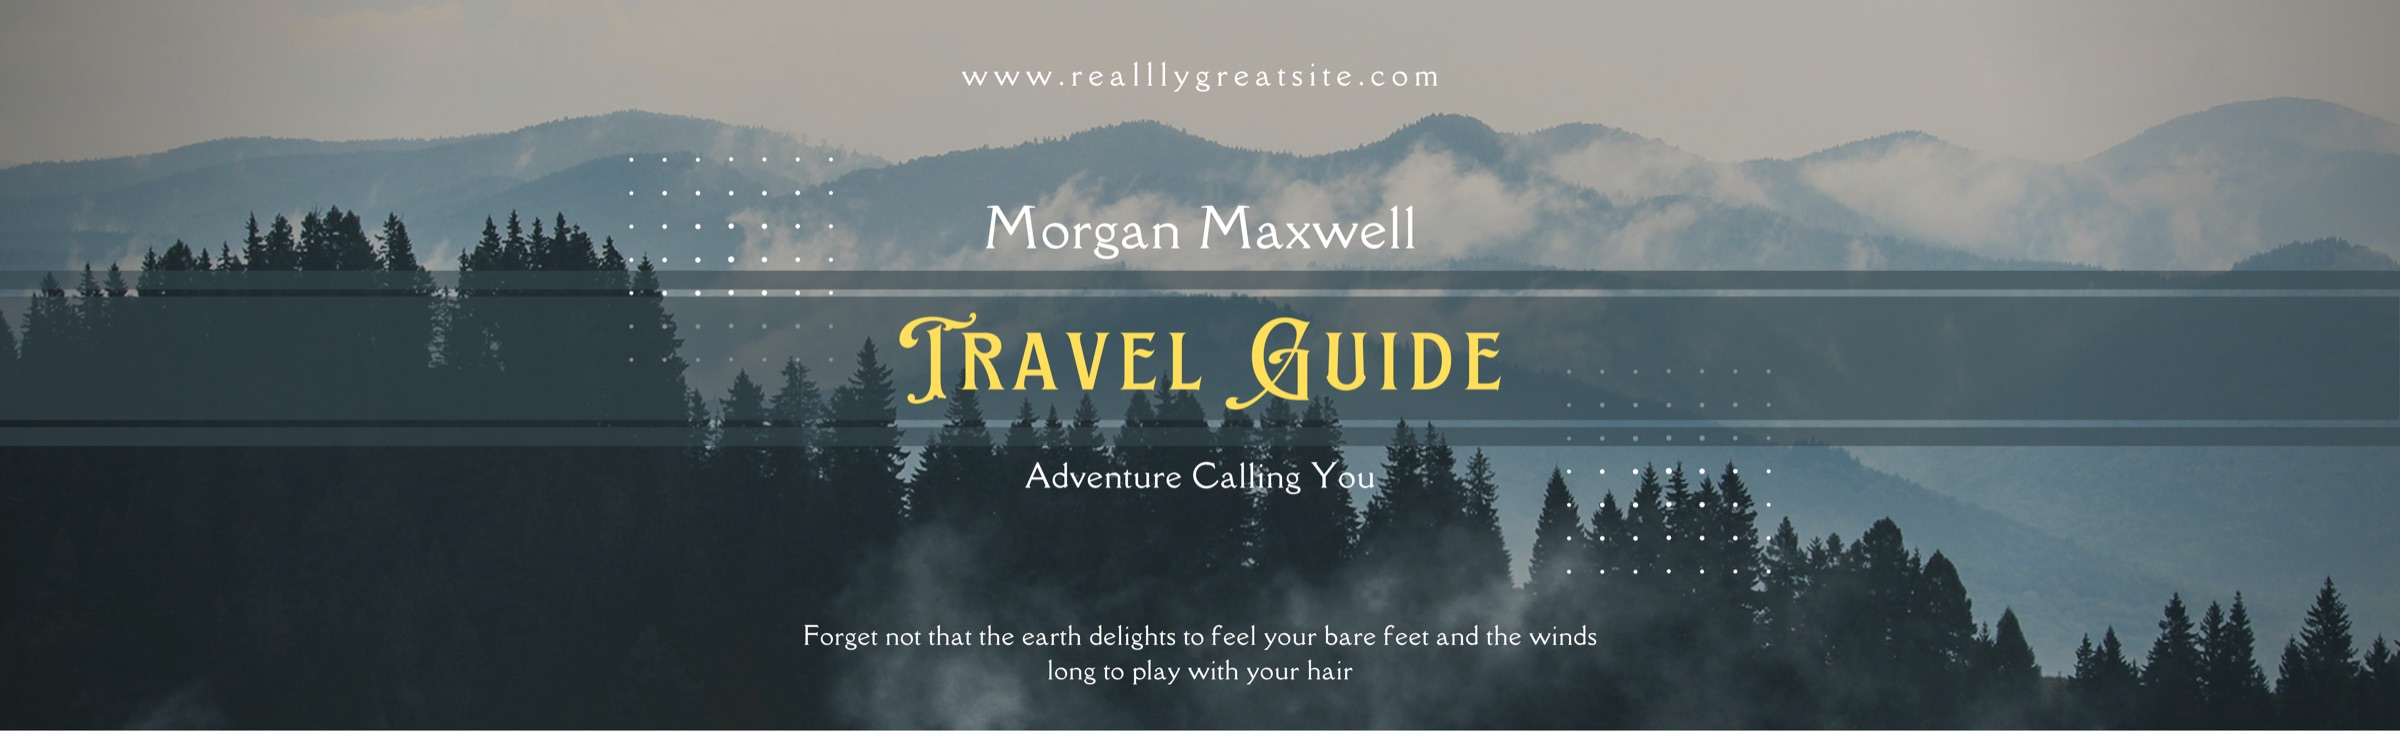
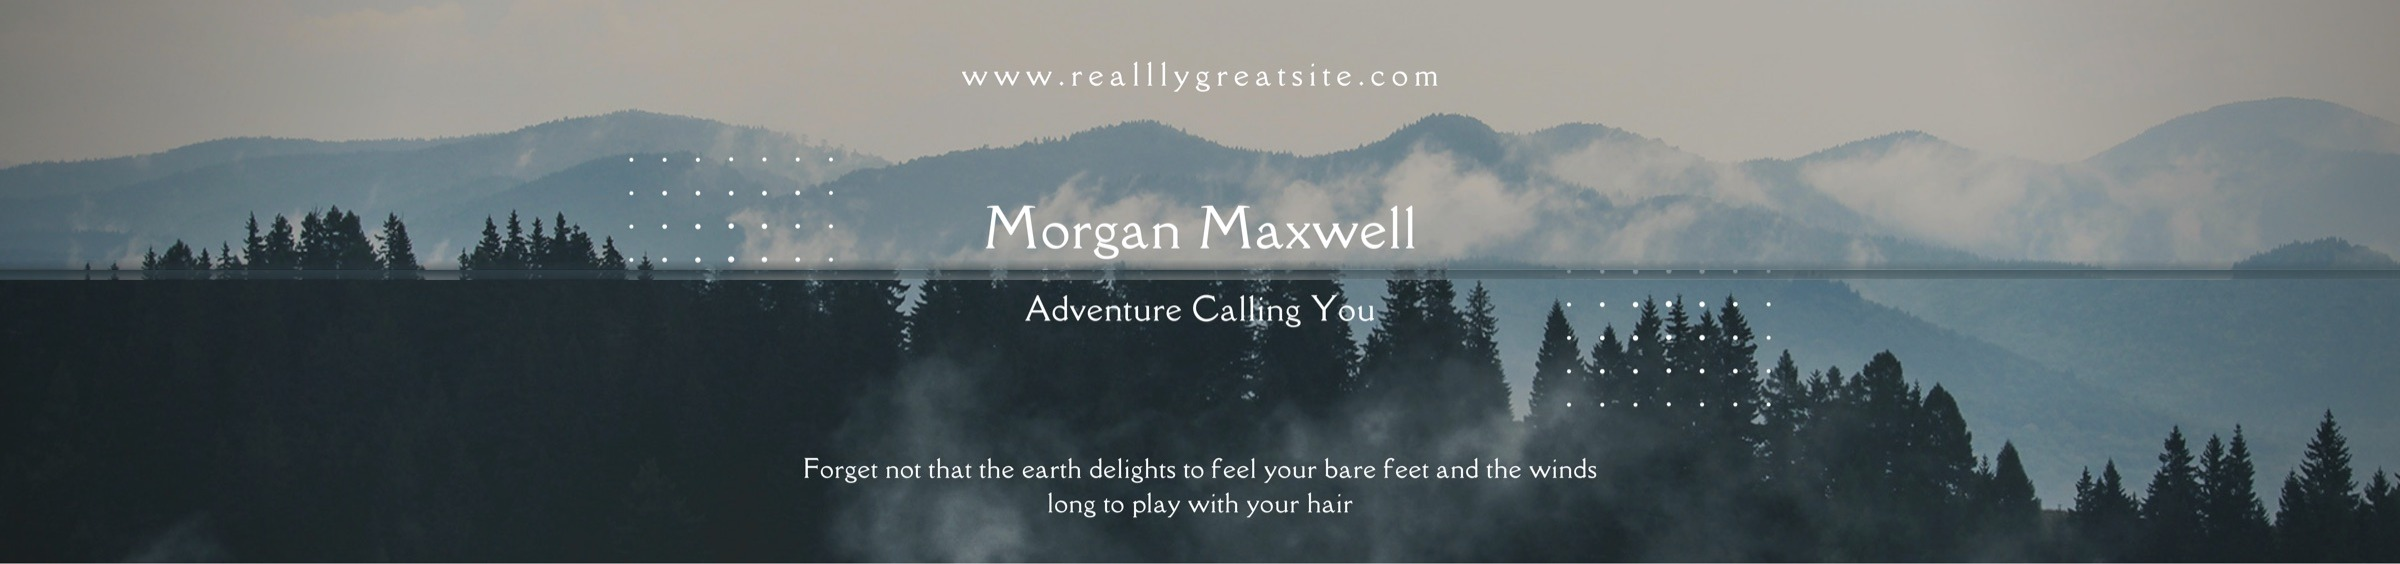
fix: additional bug fixes

diff --git a/app/robots.ts b/app/robots.ts
@@ -20,17 +20,21 @@ export default async function robots(): Promise<MetadataRoute.Robots> {
 
   // proxy.ts rewrites every route to the same coming-soon placeholder while
   // this is on, so every path would look like duplicate content to a
-  // crawler — block indexing entirely until the real site is live. The one
-  // exception is /privacy-policy: proxy.ts keeps it reachable regardless of
-  // this flag (Facebook app review needs it live), so it should stay
-  // crawlable too rather than being lumped in with the placeholder pages.
+  // crawler — block indexing entirely until the real site is live. Two
+  // exceptions: /privacy-policy (proxy.ts keeps it reachable regardless of
+  // this flag for Facebook app review) stays crawlable, and /sitemap.xml
+  // must stay allowed too — Search Console fetches the sitemap file itself
+  // before it can queue submitted URLs, so blocking it makes sitemap
+  // submission fail outright ("Invalid sitemap address") rather than just
+  // deferring indexing of what's inside it.
   if (process.env.COMING_SOON_MODE === "true") {
     return {
       rules: {
         userAgent: "*",
-        allow: "/privacy-policy",
+        allow: ["/privacy-policy", "/sitemap.xml"],
         disallow: "/",
       },
+      sitemap: `${SITE_URL}/sitemap.xml`,
     };
   }
 

diff --git a/components/homepage/hero-carousel.tsx b/components/homepage/hero-carousel.tsx
@@ -62,7 +62,6 @@ export function HeroCarousel({ slides }: { slides: HeroSlideDisplay[] }) {
           priority
           className="object-cover"
         />
-        <div className="absolute inset-0 bg-gradient-to-t from-secondary/80 via-secondary/20 to-transparent" />
       </div>
     );
   }
